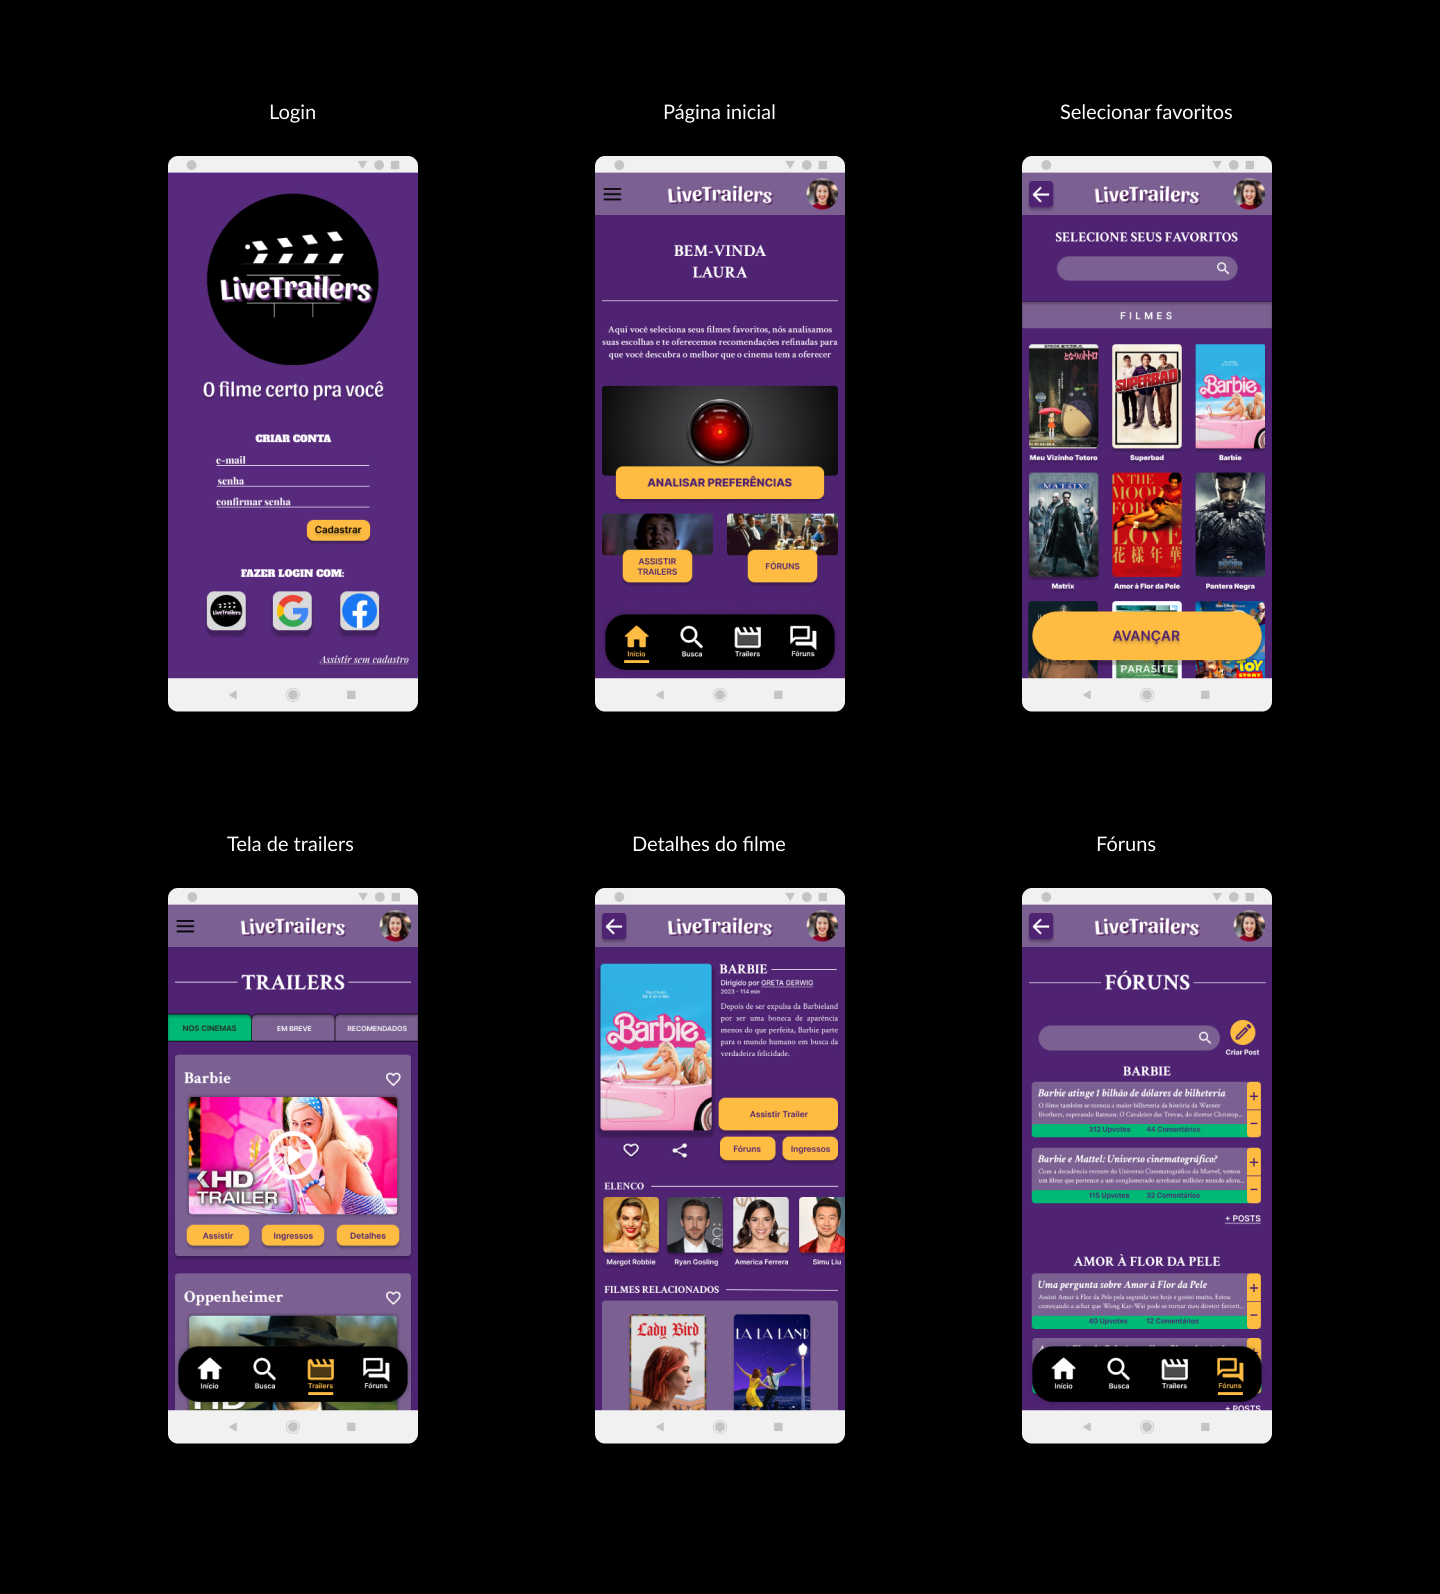
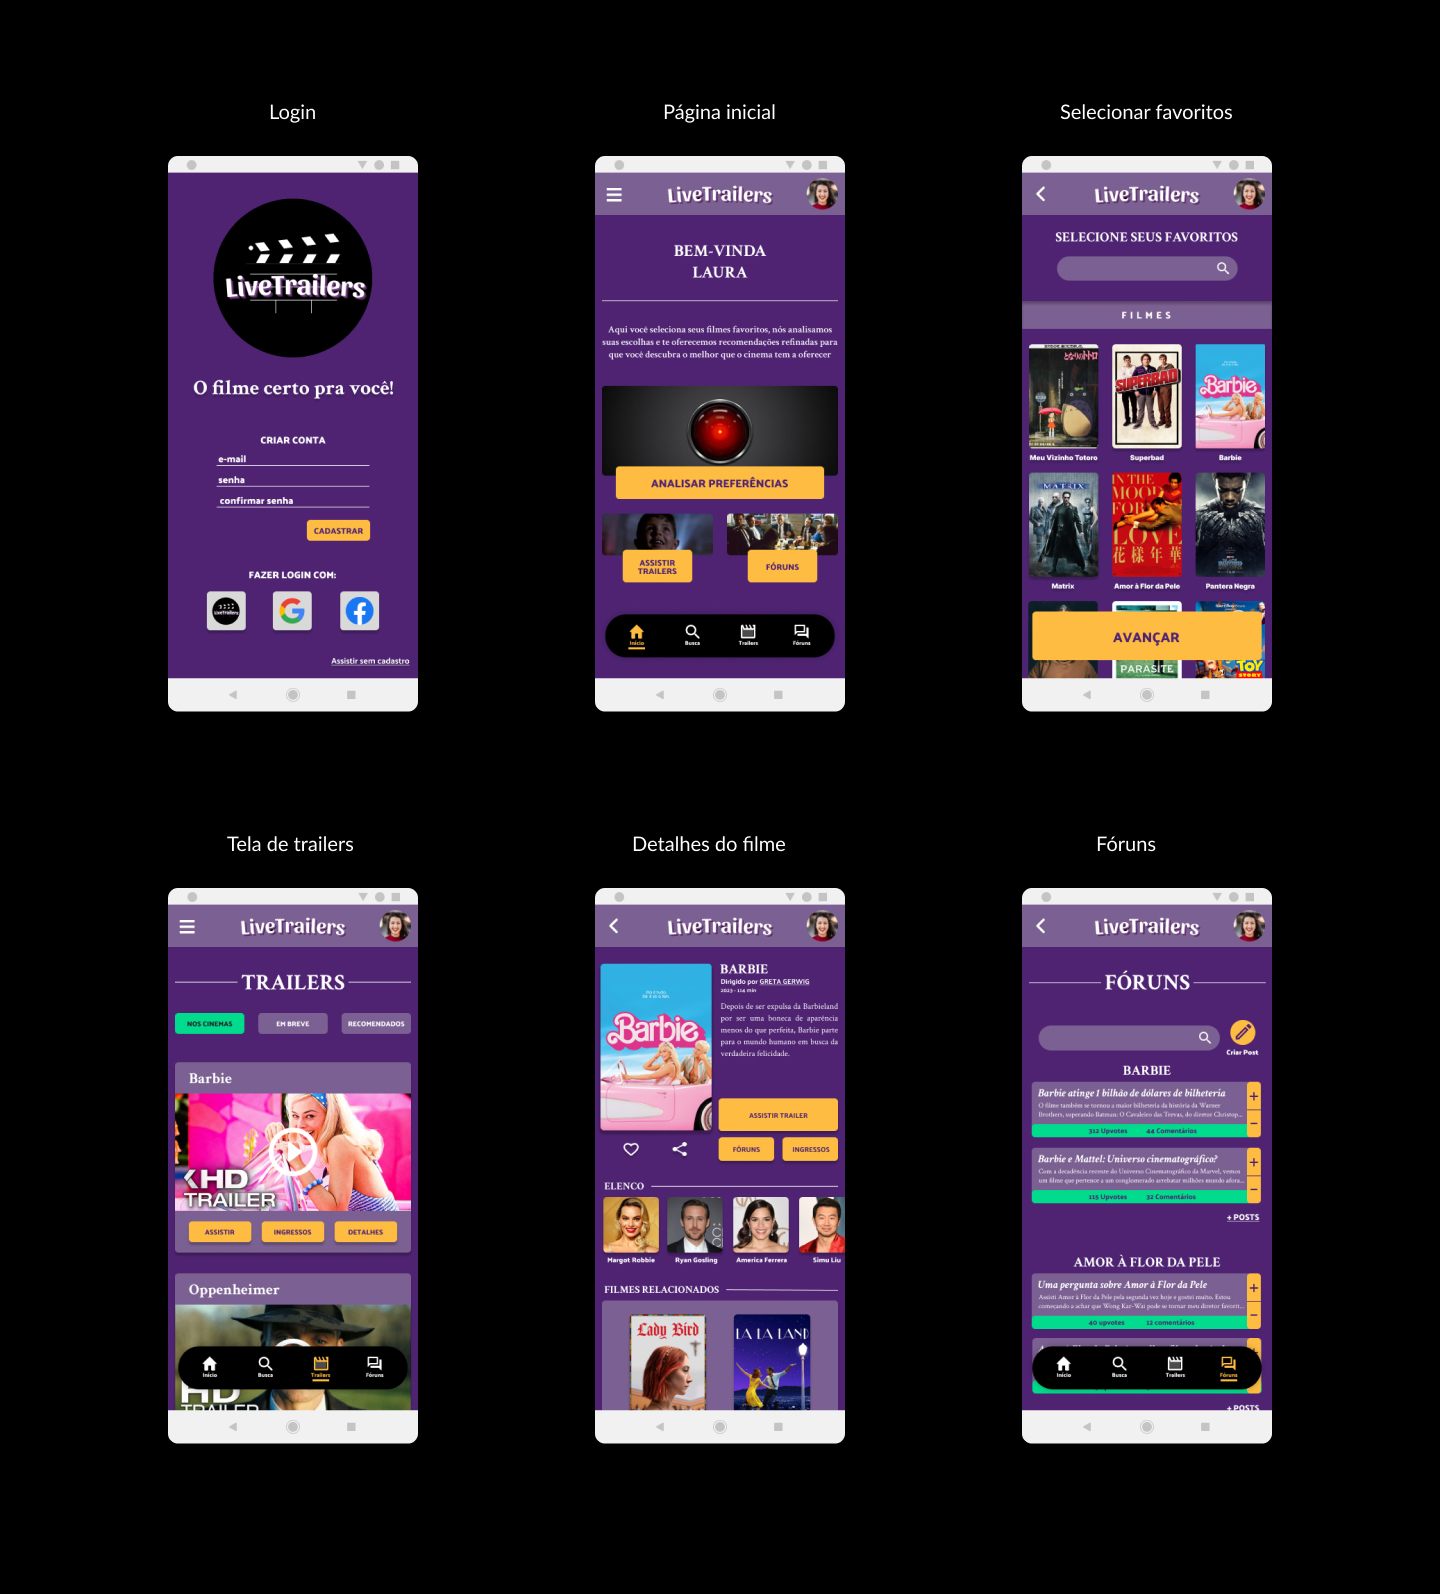
Changes in color, font size, add resp. new image

diff --git a/index.html b/index.html
@@ -206,7 +206,10 @@
             Abaixo o Fluxo de Usuário construído levando em consideração o principal caminho a ser tomado dentro do aplicativo.
           </p>
         </div>
-        <img src="./Images/Fluxo de Usuário - AppTrailers (1).png" alt="Fluxo de Usuário">
+        <picture>
+          <source media="(max-width: 600px)" srcset="./Images/FluxodeUsuario-AppTrailers-small.jpg">
+          <img src="./Images/Fluxo de Usuário - AppTrailers (1).png" alt="Fluxo de Usuário">
+        </picture>
       </div>
       <div class="block">
         <div class="title">
@@ -443,6 +446,25 @@
         <img src="./Images/Iterações.jpg" alt="Iterações">
       </div>
       <div class="block">
+        <div class="text">
+          <p>
+            Outras modificações após o segundo estudo de usabilidade:
+          </p>
+          <li>
+            Os botões foram padronizados para que suas bordas tivessem o mesmo aspecto em todo o aplicativo.
+          </li>
+          <li>
+            A aŕea da imagem do trailer foi estendida até as bordas de cada container.
+          </li>
+          <li>
+            O menu flutuante foi remodelado, passando a ter ícones menores.
+          </li>
+          <li>
+            O botão "voltar" também foi remodelado, sendo simplificado e modificado para estar na mesma espessura dos componentes do botão "hamburger", usado para abrir o menu oculto.
+          </li>
+        </div>
+      </div>
+      <div class="block">
         <div class="title">
           DESIGN FINAL
         </div>
@@ -453,6 +475,9 @@
           PROTÓTIPO DE ALTA-FIDELIDADE
         </div>
         <img src="./Images/Group 6 (1).jpg" alt="Protótipo Hi-fi">
+        <div class="text">
+          <p>Link para o protótipo de alta-fidelidade - <a href="https://www.figma.com/proto/pmPCXdPLcD4QCbQF1G7Lou/AppTrailers?type=design&node-id=115-2338&t=jxfYHyloc7i1ytGt-1&scaling=min-zoom&page-id=115%3A1620&starting-point-node-id=115%3A2338&mode=design">Clique aqui</a></p>
+        </div>
       </div>
     </div>
     <div class="section">

diff --git a/style.css b/style.css
@@ -17,7 +17,7 @@ body {
 
 .main-container {
   width: 100%;
-  background-color: #4F2372;
+  background-color: #D7D7D7;
   margin-bottom: 0;
 }
 
@@ -28,30 +28,30 @@ body {
 .section-title {
   width: 100%;
   height: 60px;
-  margin-top: 20%;
+  margin-top: 100px;
   display: inline-flex;
   justify-content: center;
   align-items: center;
   gap: 1rem;
   font-weight: 900;
   font-size: clamp(1rem, 5vw, 2.5rem);
-  color: white;
+  color: black;
   text-align: center;
 }
 
 .lines {
   flex: 1 1 0;
   height: 0;
-  border: 2px white solid;
+  border: 2px black solid;
 }
 
 .block {
-  margin: 20% 0;
+  margin: 100px 0;
 }
 
 .block img {
   width: 100%;
-  margin: 10% 0;
+  margin: 100px 0;
 }
 
 .title {
@@ -62,10 +62,10 @@ body {
   justify-content: right;
   align-items: center;
   padding: 2rem;
-  color: white;
+  color: black;
   font-size: 1.8rem;
   font-weight: 700;
-  background-color: #7B6092;
+  background-color: #AAAAAA;
   border-radius: 0 20px 20px 0;
 }
 
@@ -75,6 +75,7 @@ body {
     border-radius: 0;
     justify-content: left;
     margin-bottom: 30px;
+    font-size: 1.2rem;
   }
 }
 
@@ -83,11 +84,17 @@ body {
   height: auto;
   font-size: 1.2rem;
   text-align: justify;
-  color: white;
+  color: black;
   display: flex;
   flex-direction: column;
   justify-content: center;
   align-items: center;
+}
+
+@media screen and (max-width: 600px) {
+  .text {
+    font-size: 1rem;
+  }
 }
 
 .text .subtitle {
@@ -133,12 +140,13 @@ body {
 .secondary-images {
   display: flex;
   justify-content: center;
+  align-items: center;
 }
 
 .secondary-images img {
   width: 70%;
   border-radius: 10px;
-  margin-top: 30px;
+  margin-top: 20px;
 }
 
 @media screen and (max-width: 600px) {
@@ -149,7 +157,7 @@ body {
 }
 
 a {
-  color: white;
+  color: blue;
 }
 
 footer {
